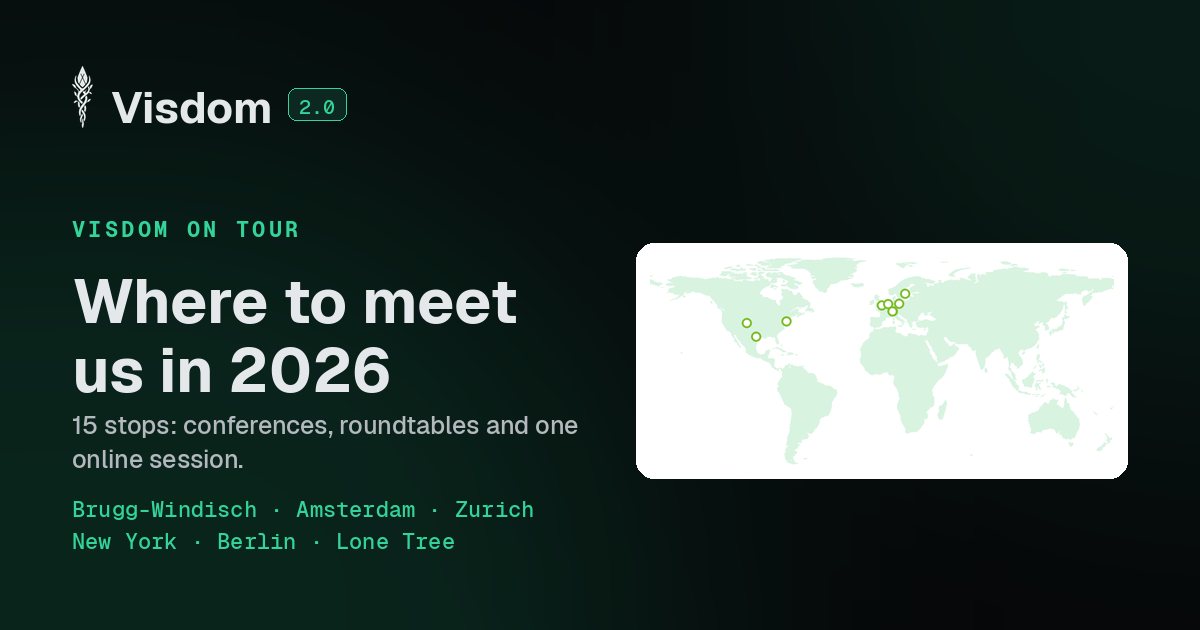
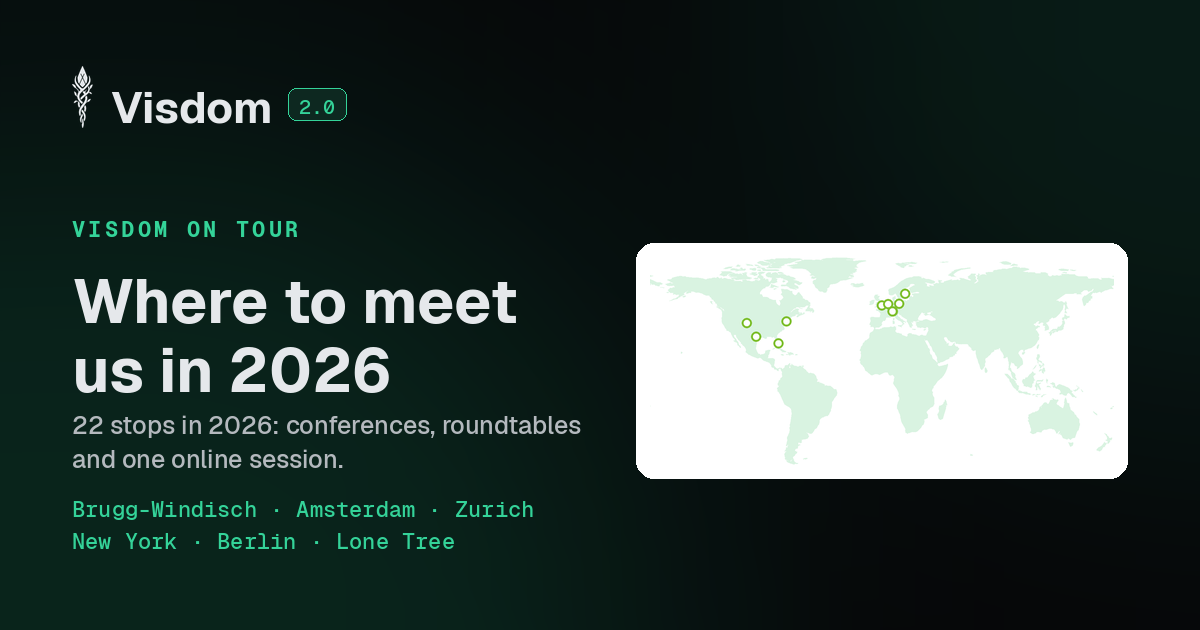
Put the whole year on the map, and take the rest of Magda's doc
Marketing asked for every stop on the map, past and upcoming, and gave the
reason: a map that only holds what is left would be two lonely dots by
December, and it is the year's work that shows the scale when this goes on
social.

So there is one list now. Past and upcoming stops are the same shape in
src/data/tour.ts and the split is computed from the date. The map carries all of
them, the ones behind us muted. The schedule keeps listing what is ahead, the
stops behind us are listed under the photos with their dates, and both sets
carry ids, so every marker still links to where its stop is written down.

From the updated doc: GTM2026 in New York, 28 September to 1 October. The six
stops we have already made now have real dates, cities and links instead of the
month-shaped placeholders the old tracker gave us, which adds Miami (Code Remix)
and puts London on the map.

Dates learned to print a range across two months: "28 September - 1 October
2026" rather than both dates in full.

Claude-Session: https://claude.ai/code/session_01HtWw8LzHF1NERsjPb2riNd

Changed region(s): [[0.0617, 0.6635, 0.4933, 0.754]]

diff --git a/src/data/tour.ts b/src/data/tour.ts
@@ -10,8 +10,11 @@
  * live here rather than in the dictionary. Country names and the kind badges
  * are keys the dictionary maps for display.
  *
- * The split between past and upcoming is computed from `date`, at build time.
- * Nothing has to be moved by hand when a stop is over.
+ * Past and upcoming stops live in the same list: the split is computed from
+ * `date` at build time, so nothing is moved by hand when a stop is over. They
+ * are all on the map, which is the point of a tour map. Marketing asked for it
+ * in as many words: by December, a map of only what is left would be a couple
+ * of lonely dots instead of a year of work.
  */
 
 export type TourEventKind =
@@ -57,6 +60,66 @@ export const TOUR_ROUTE = '/visdom-tour';
  */
 export const TOUR_EVENTS: TourEvent[] = [
   {
+    name: 'Roundtable AI in SDLC',
+    city: 'Zurich',
+    country: 'Switzerland',
+    flag: '🇨🇭',
+    date: '2026-03-26',
+    month: 'March',
+    kind: 'roundtable',
+  },
+  {
+    name: 'Code Remix',
+    city: 'Miami',
+    country: 'USA',
+    flag: '🇺🇸',
+    date: '2026-05-11',
+    endDate: '2026-05-13',
+    month: 'May',
+    href: 'https://coderemix.ai/',
+    kind: 'conference',
+  },
+  {
+    name: 'Roundtable AI in SDLC',
+    city: 'Zurich',
+    country: 'Switzerland',
+    flag: '🇨🇭',
+    date: '2026-05-29',
+    month: 'May',
+    kind: 'roundtable',
+  },
+  {
+    name: 'NY Tech Week: From Copilot to Control Plane',
+    city: 'New York',
+    country: 'USA',
+    flag: '🇺🇸',
+    date: '2026-06-02',
+    month: 'June',
+    href: 'https://partiful.com/e/bn5h1g13xzOV6R5XkLaE',
+    kind: 'meetup',
+  },
+  {
+    name: 'NY Tech Week: How to write a book on AI',
+    city: 'New York',
+    country: 'USA',
+    flag: '🇺🇸',
+    date: '2026-06-02',
+    month: 'June',
+    href: 'https://partiful.com/e/M7pXmV8sOXT11yHb9pKw',
+    kind: 'meetup',
+  },
+  {
+    name: 'AI World Congress',
+    city: 'London',
+    country: 'United Kingdom',
+    flag: '🇬🇧',
+    date: '2026-06-23',
+    endDate: '2026-06-24',
+    month: 'June',
+    href: 'https://aiconference.london/',
+    kind: 'conference',
+  },
+  {
     name: 'Energy Data Hackdays',
     city: 'Brugg-Windisch',
     country: 'Switzerland',
@@ -98,6 +161,17 @@ export const TOUR_EVENTS: TourEvent[] = [
     month: 'September',
     href: 'https://virtuslab.com/lp/roundtable-zurich-september-23',
     kind: 'roundtable',
+  },
+  {
+    name: 'GTM2026',
+    city: 'New York',
+    country: 'USA',
+    flag: '🇺🇸',
+    date: '2026-09-28',
+    endDate: '2026-10-01',
+    month: 'September',
+    href: 'https://attendgtm.com/',
+    kind: 'conference',
   },
   {
     name: 'Visdom Roundtable AI-native SDLC',
@@ -239,9 +313,10 @@ export type CityPlacement = {
 
 export const CITY_PLACEMENT: Record<string, CityPlacement> = {
   'Lone Tree': { lat: 39.55, lon: -104.87, dx: -5, dy: 0, anchor: 'end' },
+  Miami: { lat: 25.77, lon: -80.19, dx: 5, dy: 3, anchor: 'start' },
   Austin: { lat: 30.27, lon: -97.74, dx: -5, dy: 3.5, anchor: 'end' },
   'New York': { lat: 40.71, lon: -74.01, dx: 5, dy: 2, anchor: 'start' },
-  London: { lat: 51.51, lon: -0.13, dx: -6, dy: 1, anchor: 'end' },
+  London: { lat: 51.51, lon: -0.13, dx: -6, dy: 4, anchor: 'end' },
   Amsterdam: { lat: 52.37, lon: 4.9, dx: -8, dy: -4, anchor: 'end' },
   Stockholm: { lat: 59.33, lon: 18.06, dx: 6, dy: -3, anchor: 'start' },
   Berlin: { lat: 52.52, lon: 13.4, dx: 8, dy: -4, anchor: 'start' },
@@ -250,58 +325,7 @@ export const CITY_PLACEMENT: Record<string, CityPlacement> = {
 };
 
 /**
- * Where we have already been this year.
- *
- * Kept separate from TOUR_EVENTS because these entries carry a month rather
- * than a date: the tracker they come from records the period a stop ran in, not
- * the day, and inventing a day to make the shapes match would put a fact on the
- * page that nobody checked.
- */
-export type PastAppearance = {
-  name: string;
-  city: string;
-  country: string;
-  flag: string;
-  /** Month key from the dictionary's `tour.months` map. Empty when unrecorded. */
-  month: string;
-  href?: string;
-};
-
-export const PAST_APPEARANCES: PastAppearance[] = [
-  {
-    name: 'Roundtable AI in SDLC',
-    city: 'Zurich',
-    country: 'Switzerland',
-    flag: '🇨🇭',
-    month: 'May',
-  },
-  {
-    name: 'Techweek NYC: From Copilot to Control Plane',
-    city: 'New York',
-    country: 'USA',
-    flag: '🇺🇸',
-    month: 'June',
-    href: 'https://partiful.com/e/bn5h1g13xzOV6R5XkLaE',
-  },
-  {
-    name: 'Techweek NYC: How to write a book on AI',
-    city: 'New York',
-    country: 'USA',
-    flag: '🇺🇸',
-    month: 'June',
-    href: 'https://partiful.com/e/M7pXmV8sOXT11yHb9pKw',
-  },
-  {
-    name: 'AI World Congress',
-    city: 'London',
-    country: 'United Kingdom',
-    flag: '🇬🇧',
-    month: '',
-  },
-];
-
-/**
- * Photos from the road, shown above the past appearances.
+ * Photos from the road, shown above the stops that have already happened.
  *
  * `alt` is a key into t.visdomTour.gallery.alt: the file name is layout, the
  * description is copy a reader hears.

diff --git a/src/lib/tour-format.ts b/src/lib/tour-format.ts
@@ -21,6 +21,11 @@ export function tourDates(locale: string): TourDates {
     timeZone: 'UTC',
   });
   const dayOnly = new Intl.DateTimeFormat(tag, { day: 'numeric', timeZone: 'UTC' });
+  const dayAndMonth = new Intl.DateTimeFormat(tag, {
+    day: 'numeric',
+    month: 'long',
+    timeZone: 'UTC',
+  });
 
   return {
     human(stop) {
@@ -28,12 +33,12 @@ export function tourDates(locale: string): TourDates {
       const start = new Date(`${stop.date}T12:00:00Z`);
       if (!stop.endDate) return full.format(start);
       const end = new Date(`${stop.endDate}T12:00:00Z`);
-      // A range inside one month prints the month once. One that crosses a
-      // month prints both dates in full rather than inventing a shorthand.
+      // A range inside one month prints the month once: "10-11 September 2026".
+      // One that crosses a month prints both months but one year:
+      // "28 September - 1 October 2026".
       const sameMonth = stop.date.slice(0, 7) === stop.endDate.slice(0, 7);
-      return sameMonth
-        ? `${dayOnly.format(start)}-${full.format(end)}`
-        : `${full.format(start)}, ${full.format(end)}`;
+      if (sameMonth) return `${dayOnly.format(start)}-${full.format(end)}`;
+      return `${dayAndMonth.format(start)} - ${full.format(end)}`;
     },
   };
 }

diff --git a/src/lib/tour-format.test.ts b/src/lib/tour-format.test.ts
@@ -18,10 +18,14 @@ test('a range inside one month prints the month once', () => {
   );
 });
 
-test('a range across two months prints both dates', () => {
+test('a range across two months prints both months and one year', () => {
   assert.equal(
-    tourDates('en').human({ date: '2026-10-30', endDate: '2026-11-02' }),
-    '30 October 2026, 2 November 2026',
+    tourDates('en').human({ date: '2026-09-28', endDate: '2026-10-01' }),
+    '28 September - 1 October 2026',
+  );
+  assert.equal(
+    tourDates('pl').human({ date: '2026-09-28', endDate: '2026-10-01' }),
+    '28 września - 1 października 2026',
   );
 });
 

diff --git a/scripts/make-og-tour.py b/scripts/make-og-tour.py
@@ -22,6 +22,7 @@ import re
 import subprocess
 import sys
 import tempfile
+from datetime import date
 from pathlib import Path
 
 ROOT = Path(__file__).resolve().parent.parent
@@ -30,16 +31,23 @@ OUT = sys.argv[1] if len(sys.argv) > 1 else str(ROOT / 'public' / 'og-visdom-tou
 # Read the schedule the page renders from. Parsed rather than imported because
 # this is Python reading TypeScript; the pattern is narrow and fails loudly.
 TOUR = (ROOT / 'src' / 'data' / 'tour.ts').read_text()
-BLOCK = TOUR[TOUR.index('export const TOUR_EVENTS'):TOUR.index('export type PastAppearance')]
+BLOCK = TOUR[TOUR.index('export const TOUR_EVENTS'):TOUR.index('export const TOUR_PHOTOS')]
+
+# The card names the cities we are heading to, not the ones behind us: the
+# headline says where to meet us. The dots keep every stop of the year, which
+# is what shows the scale of the tour.
+TODAY = date.today().isoformat()
+STOPS = 0
 CITIES = []
-for m in re.finditer(r"city:\s*'([^']+)'", BLOCK):
-    city = m.group(1)
-    if city not in CITIES and city != 'Online':
+for m in re.finditer(r"city:\s*'([^']+)'[\s\S]{0,240}?date: '([\d-]+)'(?:,\s*\n\s*endDate: '([\d-]+)')?", BLOCK):
+    city, starts, ends = m.group(1), m.group(2), m.group(3)
+    STOPS += 1
+    if (ends or starts) < TODAY or city == 'Online':
+        continue
+    if city not in CITIES:
         CITIES.append(city)
 if len(CITIES) < 4:
-    raise SystemExit(f'make-og-tour: parsed only {len(CITIES)} cities from src/data/tour.ts')
-
-STOPS = len(re.findall(r"\bcity:\s*'", BLOCK))
+    raise SystemExit(f'make-og-tour: parsed only {len(CITIES)} upcoming cities from src/data/tour.ts')
 
 # Where each stop is, from the same placement table the page uses. Only the
 # coordinates: the label offsets are for a map with labels on it.
@@ -177,7 +185,7 @@ for line in wrap(title, tf, col):
     d.text((PAD, ty), line, font=tf, fill=TEXT)
     ty += round(size * 1.12)
 
-sub = f'{STOPS} stops: conferences, roundtables and one online session.'
+sub = f'{STOPS} stops in 2026: conferences, roundtables and one online session.'
 sf = sans('Medium', 25)
 ty += 10
 for line in wrap(sub, sf, col):
